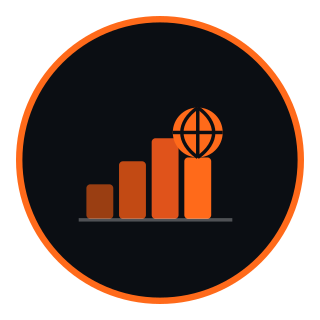
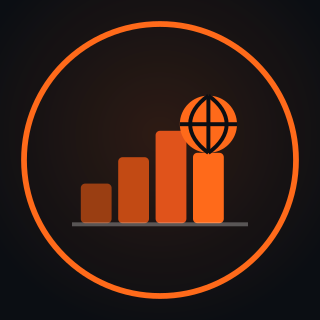
Brand: circle-crop-safe profile pics (full-bleed, safe-zone mark) + 1000px master
Profile pics rendered the symbol edge-to-edge, so its ring clipped under the IG/
TikTok/X circular crop. Rebuilt: full-bleed graphite background, mark pulled into
a safe zone with an inset orange ring that can't be clipped. Adds a 1000px master
and recommends it on the brand download page; relabels the text avatar as non-circle.

diff --git a/public/brand/index.html b/public/brand/index.html
@@ -90,10 +90,16 @@
     </div>
 
     <h2>Profile pictures (Instagram / TikTok / YouTube / X)</h2>
+    <p class="tip" style="text-align:left; margin:-4px 0 12px;">Apps crop your profile photo to a <b>circle</b>. The first option is built to fit that crop cleanly — nothing gets cut off.</p>
     <div class="grid">
       <div class="card">
-        <div class="shot"><img src="/brand/png/prosperahoops-avatar-circle-512.png" alt="Avatar" /></div>
-        <div class="meta"><div class="name">Avatar — circle</div><div class="use">Your profile photo on every social app. 512×512.</div>
+        <div class="shot"><img src="/brand/social/profile-pic-1000.png" alt="Profile picture" style="border-radius:50%;" /></div>
+        <div class="meta"><div class="name">Profile picture — recommended</div><div class="use">Built for the Instagram / TikTok / X circle crop — fits perfectly, no clipping. Use this as your profile photo. 1000×1000.</div>
+          <a class="dl" href="/brand/social/profile-pic-1000.png" download>Download</a></div>
+      </div>
+      <div class="card">
+        <div class="shot"><img src="/brand/png/prosperahoops-avatar-circle-512.png" alt="Avatar with wordmark" /></div>
+        <div class="meta"><div class="name">Avatar — with wordmark</div><div class="use">Includes the PROSPERA HOOPS text. Best where it <b>won't</b> be cropped to a circle (square tiles, watermarks). 512×512.</div>
           <a class="dl" href="/brand/png/prosperahoops-avatar-circle-512.png" download>Download</a></div>
       </div>
       <div class="card">
